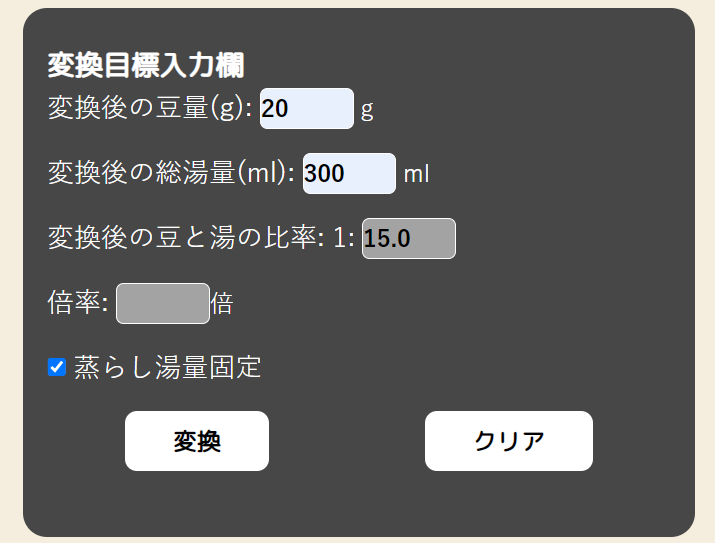
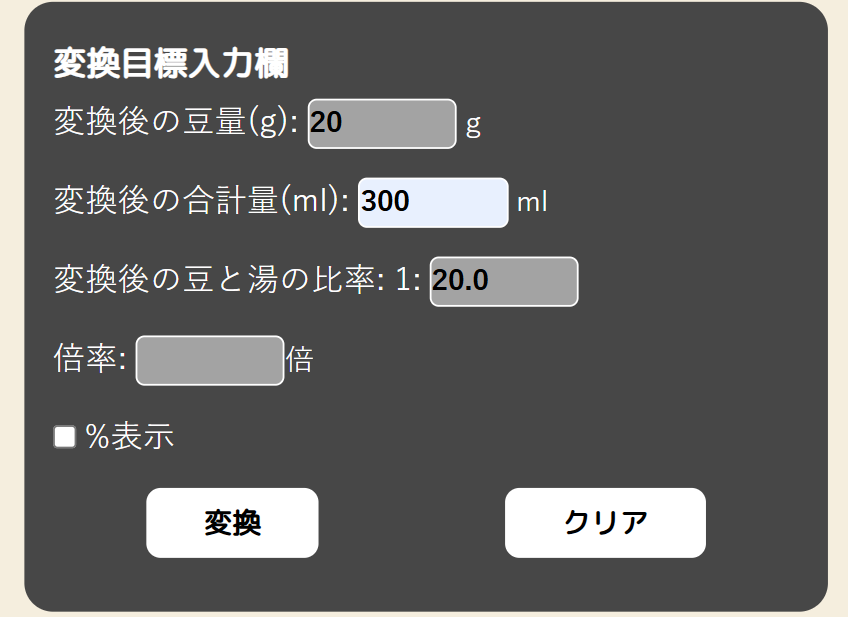
[update] 蒸らし湯量固定機能を削除
蒸らし湯量を固定したいタイミングがあまりなく、このチェックボックスのせいでデザインがダサくなっている感があったので、これを削除

diff --git a/recipes/static/script/index.js b/recipes/static/script/index.js
@@ -208,10 +208,6 @@ $(document).ready(function() {
             seconds.push(String($(`.pour-step${i}`).children('.seconds').val()).padStart(2, '0'));
             input_pour_mls.push($(`.pour-step${i}`).children('.pour-ml').val());
             totalWater_mls.push(Math.trunc(input_pour_mls[i] * convertRate));
-            // 蒸らし固定ONの場合、1投目の総湯量は固定(元レシピの1投目の総湯量と同じ)
-            if (i === 1 && $('#steep-keep-check').prop('checked')) {
-                totalWater_mls[1] = $(`.pour-step1`).children('.pour-ml').val();
-            }
 
             // 各投での注湯量を計算(総湯量 - ひとつ前の総湯量)
             convertedPour_mls.push(Math.trunc(totalWater_mls[i] - totalWater_mls[i-1]));

diff --git a/recipes/templates/recipes/index.html b/recipes/templates/recipes/index.html
@@ -101,11 +101,6 @@
                     <input type="text" id="magnification" class="targetBrewParameter wide-input">倍
                 </div>
                 <div>
-                    <!--蒸らし固定ON/OFF-->
-                    <input type="checkbox" id="steep-keep-check">
-                    <label for="steep-keep-check">蒸らし湯量固定</label>
-                </div>
-                <div>
                     <input type="checkbox" id="percentage-check">
                     <label for="percentage-check">%表示</label>
                 </div>

diff --git a/README.md b/README.md
@@ -73,11 +73,6 @@ https://github.com/user-attachments/assets/82e14817-657c-4947-9a74-a3a9b8c26b60
 
       ※ 入力補助機能がある都合上、豆量・総湯量・比率が全て入力されていると目標値の変更が難しくなる問題を確認したため本機能を実装しました。
 
-   **蒸らし固定ボタン**
-
-      蒸らし湯量を固定した状態での変換が可能です。<br>
-      基本的にはOFFで良いと思いますが、大幅な最終量変化がある場合は固定OFFでも良いかも知れません
-
 5. **変換後レシピの出力**：変換されたレシピが表形式で表示されます。
 
    <img src="recipes/static/images/how-to-description/convertedRecipe.png" width="40%">   
